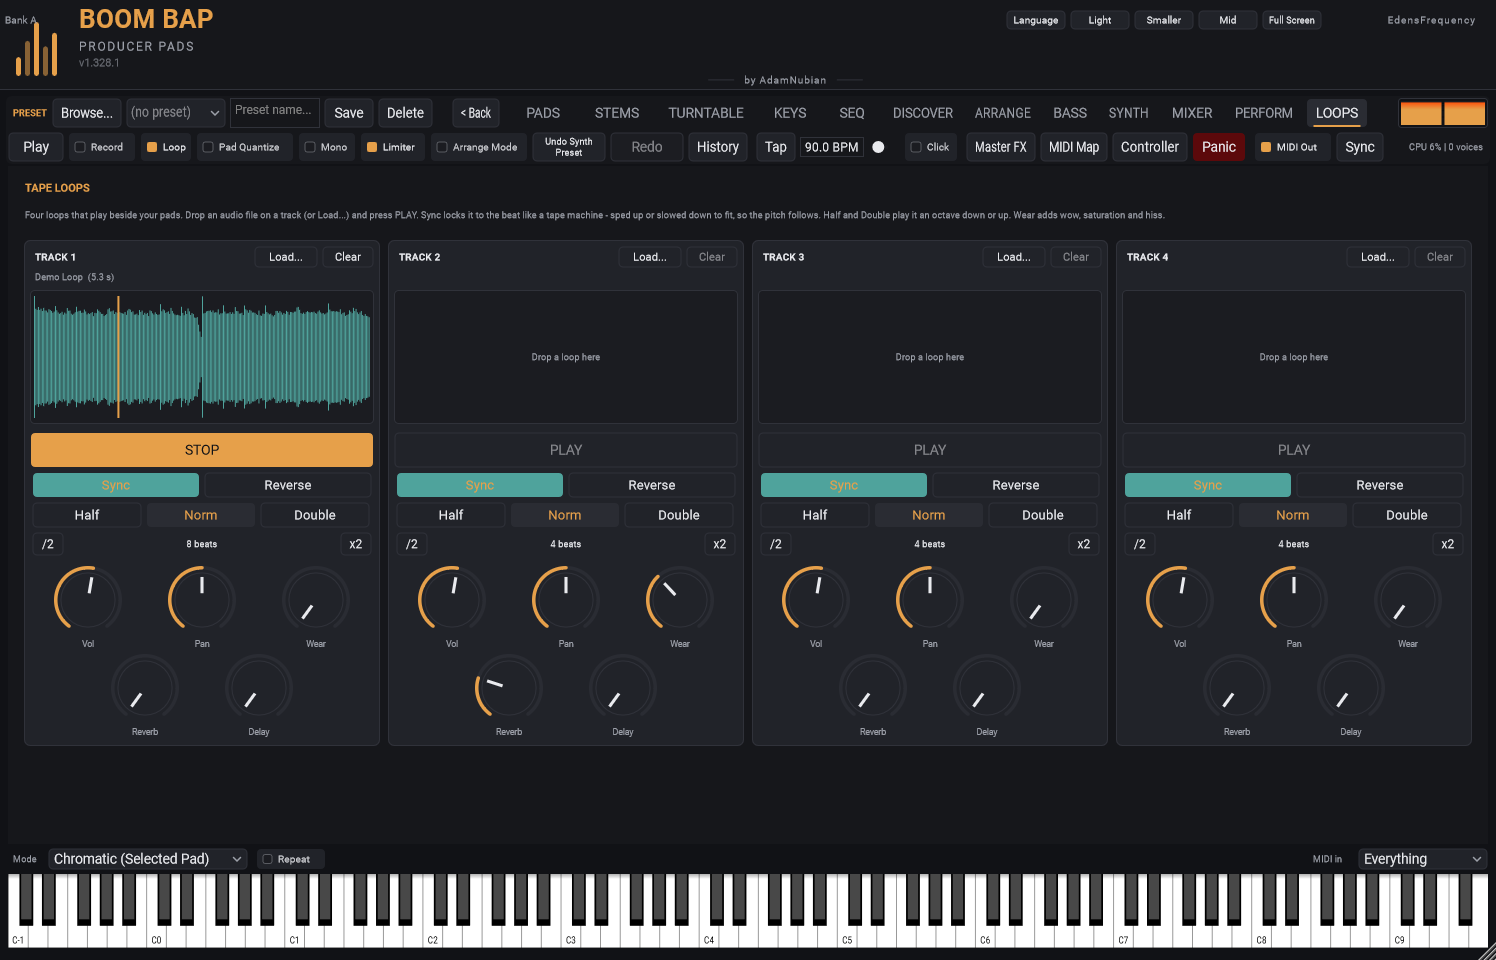
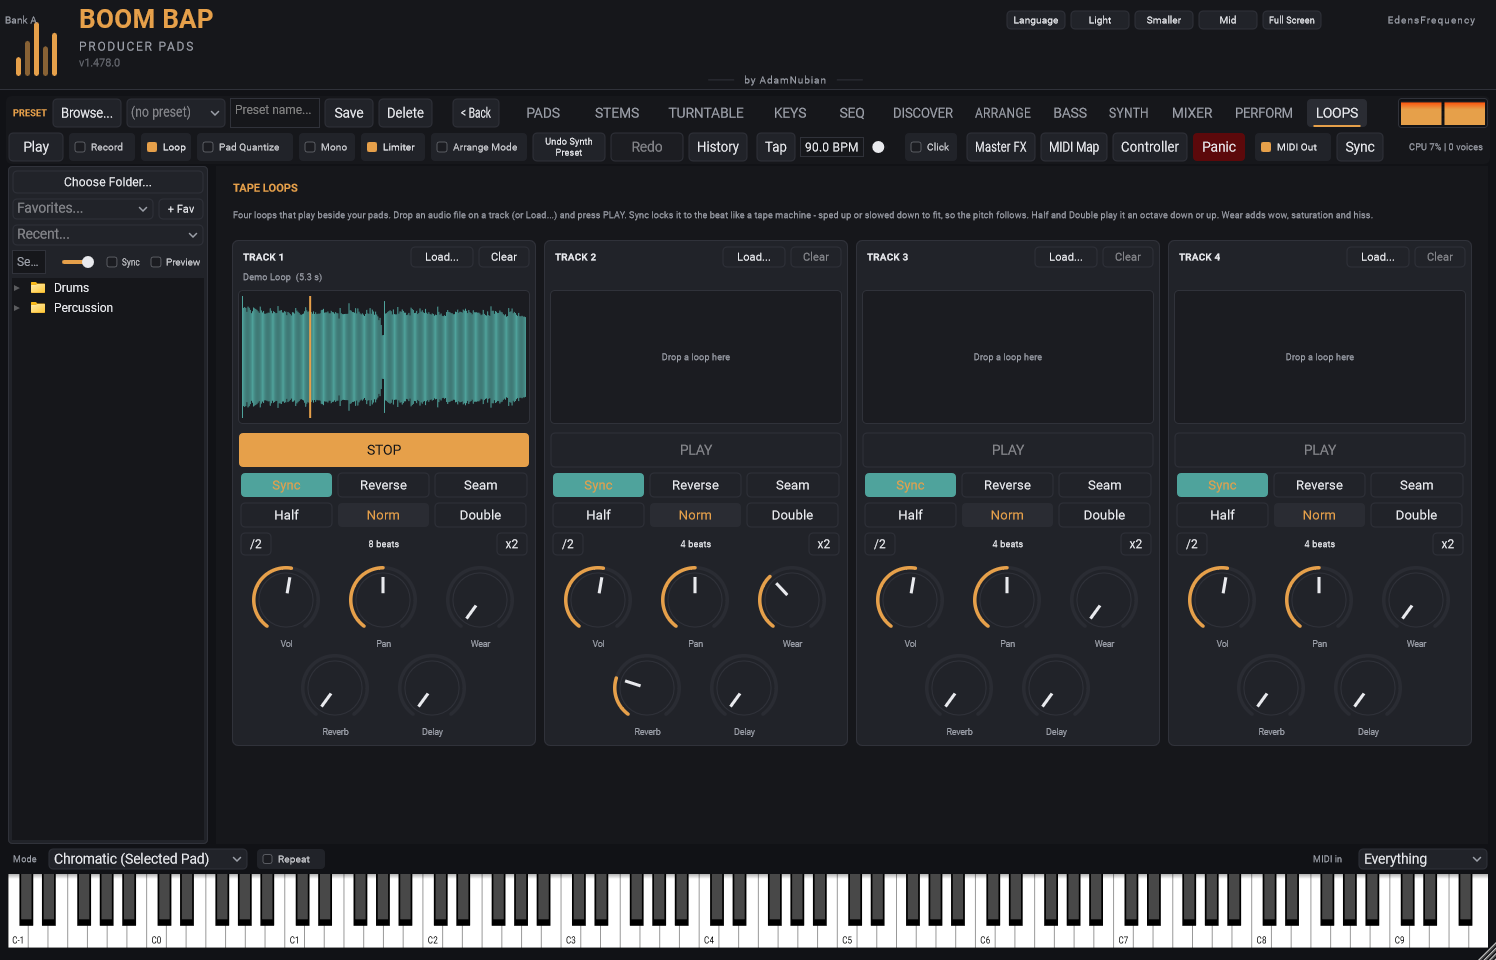
Sync docs + web + release binaries from private repo

diff --git a/web/index.html b/web/index.html
@@ -84,7 +84,7 @@
               <span>Play a beat</span>
             </button>
           </div>
-          <p class="hero-note">Pay what you want, $0 included. Latest build: <span data-release-version>v1.328.1</span>.</p>
+          <p class="hero-note">Pay what you want, $0 included. Latest build: <span data-release-version>v1.479.0</span>.</p>
         </div>
 
         <figure class="plugin-pads" aria-label="A playable 16-pad demo kit, drawn the way the plugin draws it">
@@ -191,11 +191,11 @@
           </div>
           <div class="mode-panel" role="tabpanel" id="panel-keys" aria-labelledby="tab-keys" data-episode="5" data-episode-title="Chords for days" hidden>
             <div class="window"><img src="public/assets/images/screens/keys.png" width="1496" height="960" alt="The Keys tab" loading="lazy" decoding="async"></div>
-            <p>A piano roll for the synth, 1 to 8 bars, and a melody for any pad. MIDI in and out.</p>
+            <p>A piano roll for the synth, up to 32 bars, and a melody for any pad, with chords, ghost notes and a CC lane. MIDI in and out.</p>
           </div>
           <div class="mode-panel" role="tabpanel" id="panel-synth" aria-labelledby="tab-synth" hidden>
             <div class="window"><img src="public/assets/images/screens/synth.png" width="1496" height="960" alt="The Synth tab" loading="lazy" decoding="async"></div>
-            <p>Three oscillators with wavetables, a filter, envelopes, LFOs, a mod matrix, an arpeggiator and chords. 30 presets to start from.</p>
+            <p>Three oscillators with wavetables, a filter, envelopes, LFOs, a mod matrix, an arpeggiator and chords. Over 550 presets to start from.</p>
           </div>
           <div class="mode-panel" role="tabpanel" id="panel-bass" aria-labelledby="tab-bass" data-episode="4" data-episode-title="The 808 that slides" hidden>
             <div class="window"><img src="public/assets/images/screens/bass.png" width="1496" height="960" alt="The Bass tab" loading="lazy" decoding="async"></div>
@@ -219,7 +219,7 @@
           </div>
           <div class="mode-panel" role="tabpanel" id="panel-discover" aria-labelledby="tab-discover" data-episode="9" data-episode-title="Dig the crate" hidden>
             <div class="window"><img src="public/assets/images/screens/discover.png" width="1496" height="960" alt="The Discover tab" loading="lazy" decoding="async"></div>
-            <p>Dig through your own crates, and a reference crate to listen to. Nothing gets downloaded or ripped.</p>
+            <p>Dig through your own crates: every file analysed for tempo, key and sound, filtered, rated and dragged straight into your DAW. And a reference crate to listen to. Nothing gets downloaded or ripped.</p>
           </div>
         </div>
       </div>
@@ -320,7 +320,7 @@
           <p class="price-help" id="priceHelp">Minimum $0. Any amount gets the same download.</p>
           <button class="button button-ink button-wide button-large" type="submit" id="buyButton">Download free</button>
           <p class="buy-note" id="buyNote" role="status" aria-live="polite"></p>
-          <p class="release-line"><span data-release-version>v1.328.1</span>, released <span data-release-date>4 November 2026</span>, <span data-release-size>Windows installer</span>. <a href="https://github.com/edensfrequency/boom-bap-producer-pads/releases">All releases and notes</a></p>
+          <p class="release-line"><span data-release-version>v1.479.0</span>, released <span data-release-date>6 November 2026</span>, <span data-release-size>Windows installer</span>. <a href="https://github.com/edensfrequency/boom-bap-producer-pads/releases">All releases and notes</a></p>
         </form>
       </div>
     </section>

diff --git a/web/sw.js b/web/sw.js
@@ -1,4 +1,4 @@
-const CACHE_NAME = 'bbpp-site-v11'; // v11: the Loops tab, one plugin, new screenshots
+const CACHE_NAME = 'bbpp-site-v12'; // v12: v1.479.0 screenshots and copy
 const APP_SHELL = [
   './',
   './index.html',
